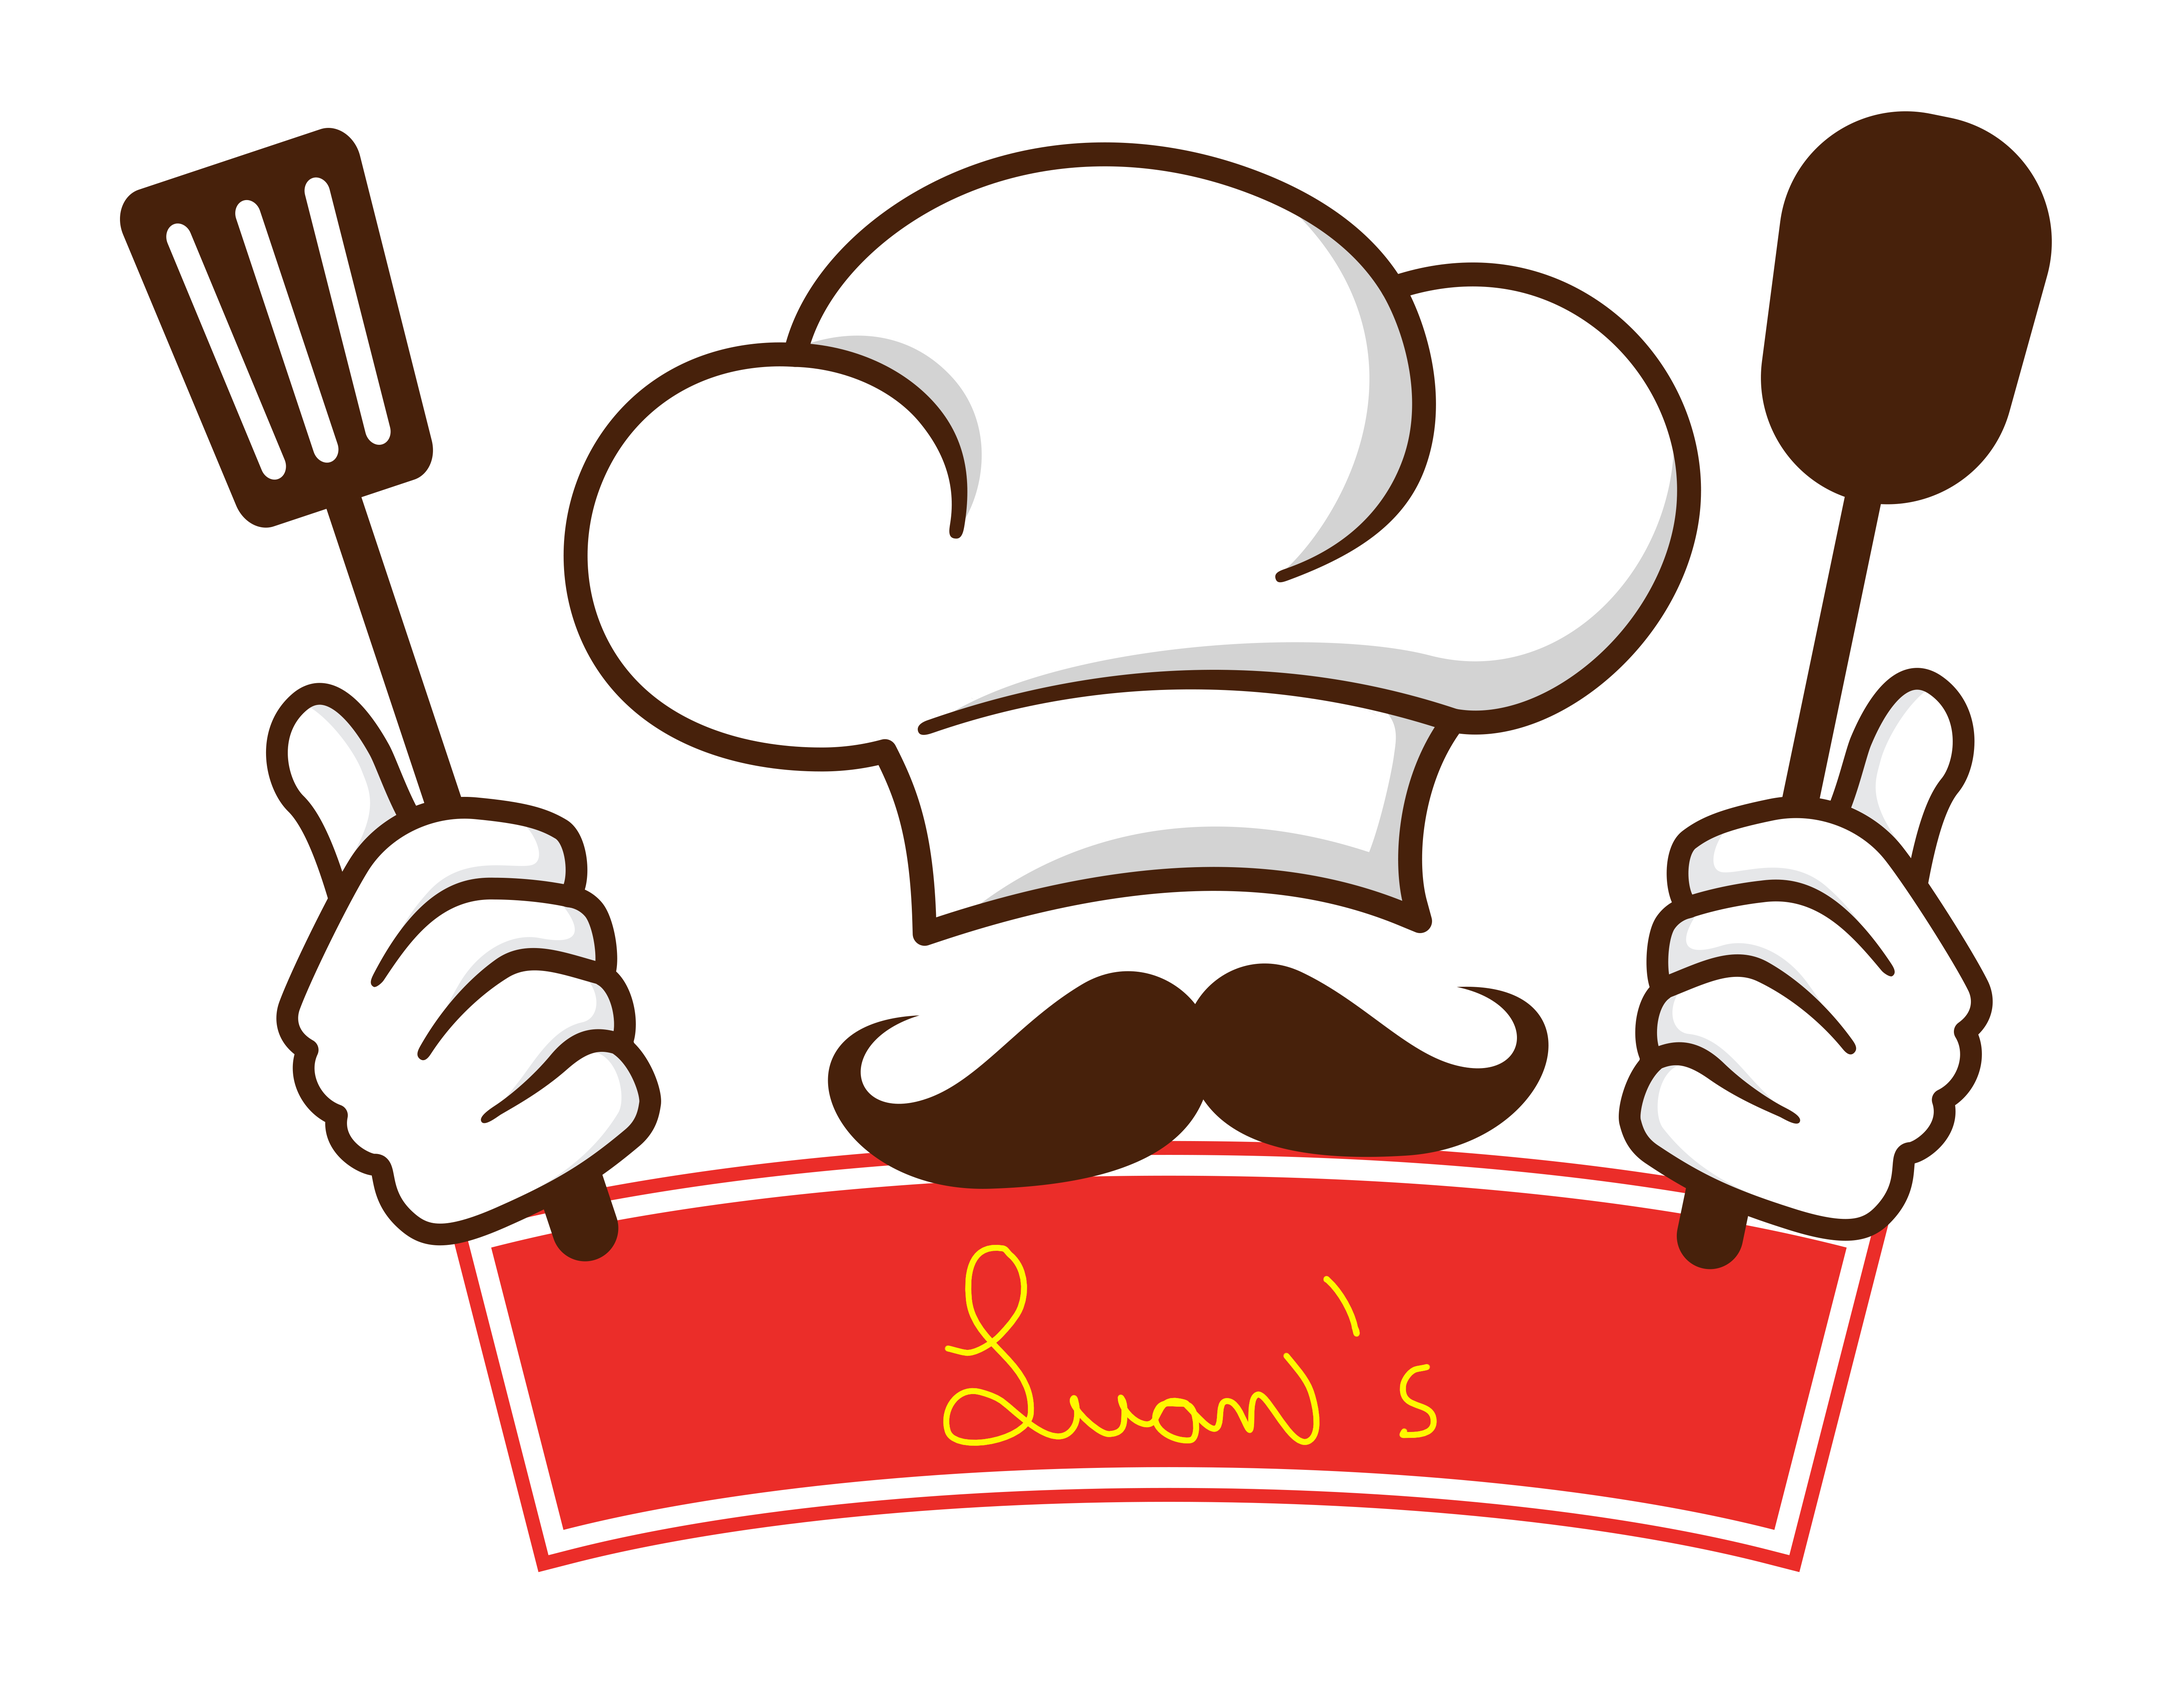
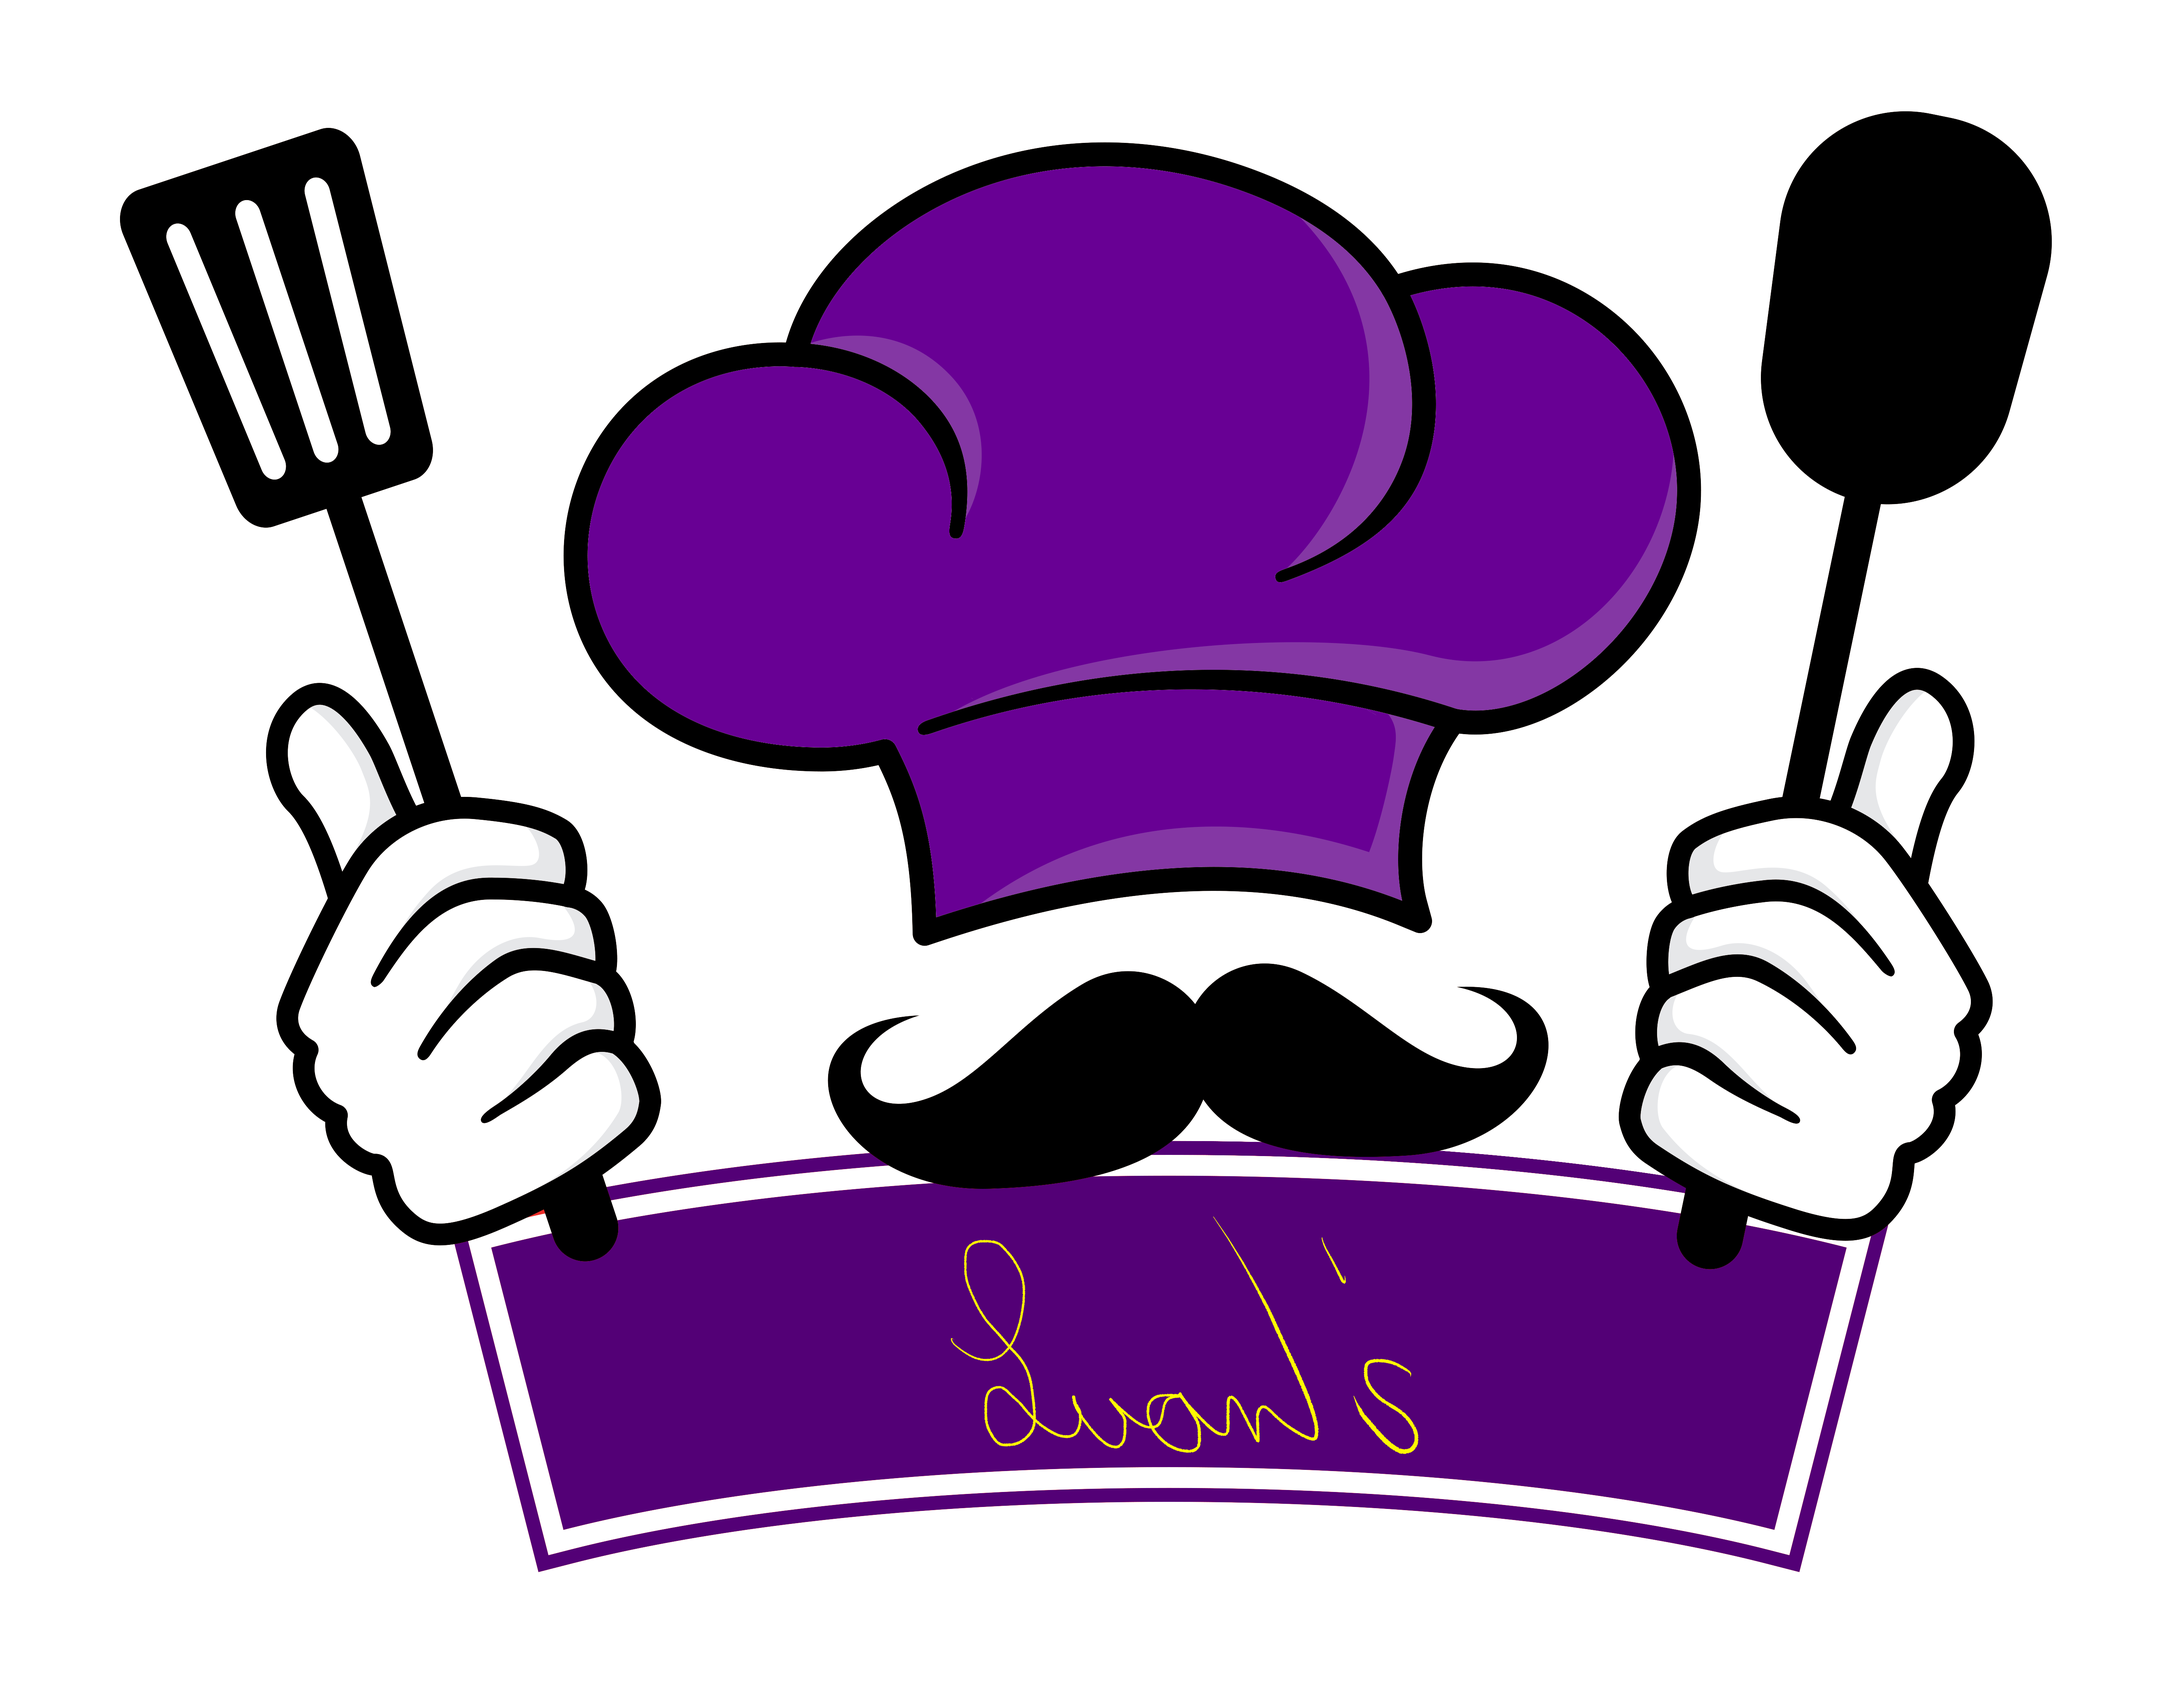
Commit 3.1 - 12/04/2021
Change of colors (logos and buttons)

diff --git a/CSS/css_staff.css b/CSS/css_staff.css
@@ -24,11 +24,11 @@ ul li {
 }
   
 .active {
-    color: orange;
+    color: rgb(116, 0, 139);
 }
   
 ul li:hover a {
-    color:orange;
+    color: rgb(116, 0, 139);
 }
   
 /* Random User Generator */
@@ -57,7 +57,7 @@ body {
     margin: auto;
     margin-top: -4.40em;
     margin-left: 5.80em;
-    color: orange;
+    color: rgb(116, 0, 139);
     font-size: 1.53em;
     font-family: "Coda", sans-serif;
     font-weight: bold;
@@ -86,7 +86,7 @@ body {
 .footer {
     margin: 2em auto;
     height: 3.70em;
-    background: orange;
+    background: rgb(116, 0, 139);
     text-align: center;
     border-radius: 0 0 .3em .3em;
     display: flex;

diff --git a/CSS/css_login.css b/CSS/css_login.css
@@ -28,11 +28,11 @@ body {
   }
   
   .active {
-    color: orange;
+    color: rgb(116, 0, 139);
   }
   
   ul li:hover a {
-    color:orange;
+    color: rgb(116, 0, 139);
   }
   
   /* Password Validator */
@@ -48,7 +48,7 @@ body {
   }
   
   input[type=submit] {
-    background-color: orange;
+    background-color: rgb(116, 0, 139);
     color: white;
   }
   

diff --git a/staff.html b/staff.html
@@ -29,7 +29,7 @@
 
     </div>
 
-    <h1 class="title">Customer</h1>
+    <h1 class="title" style="color: black;">Customer</h1>
     <div class="user-profile">
         <img id="avatar">
         <div id="fullname"></div>

diff --git a/style.css b/style.css
@@ -24,11 +24,11 @@ ul li {
 }
 
 .active {
-  color: orange;
+  color: rgb(116, 0, 139);
 }
 
 ul li:hover a {
-  color:orange;
+  color: rgb(116, 0, 139);
 }
 
 body {

diff --git a/index.html b/index.html
@@ -26,7 +26,6 @@
         </nav>
     </div>
 
-    
 
 
 
